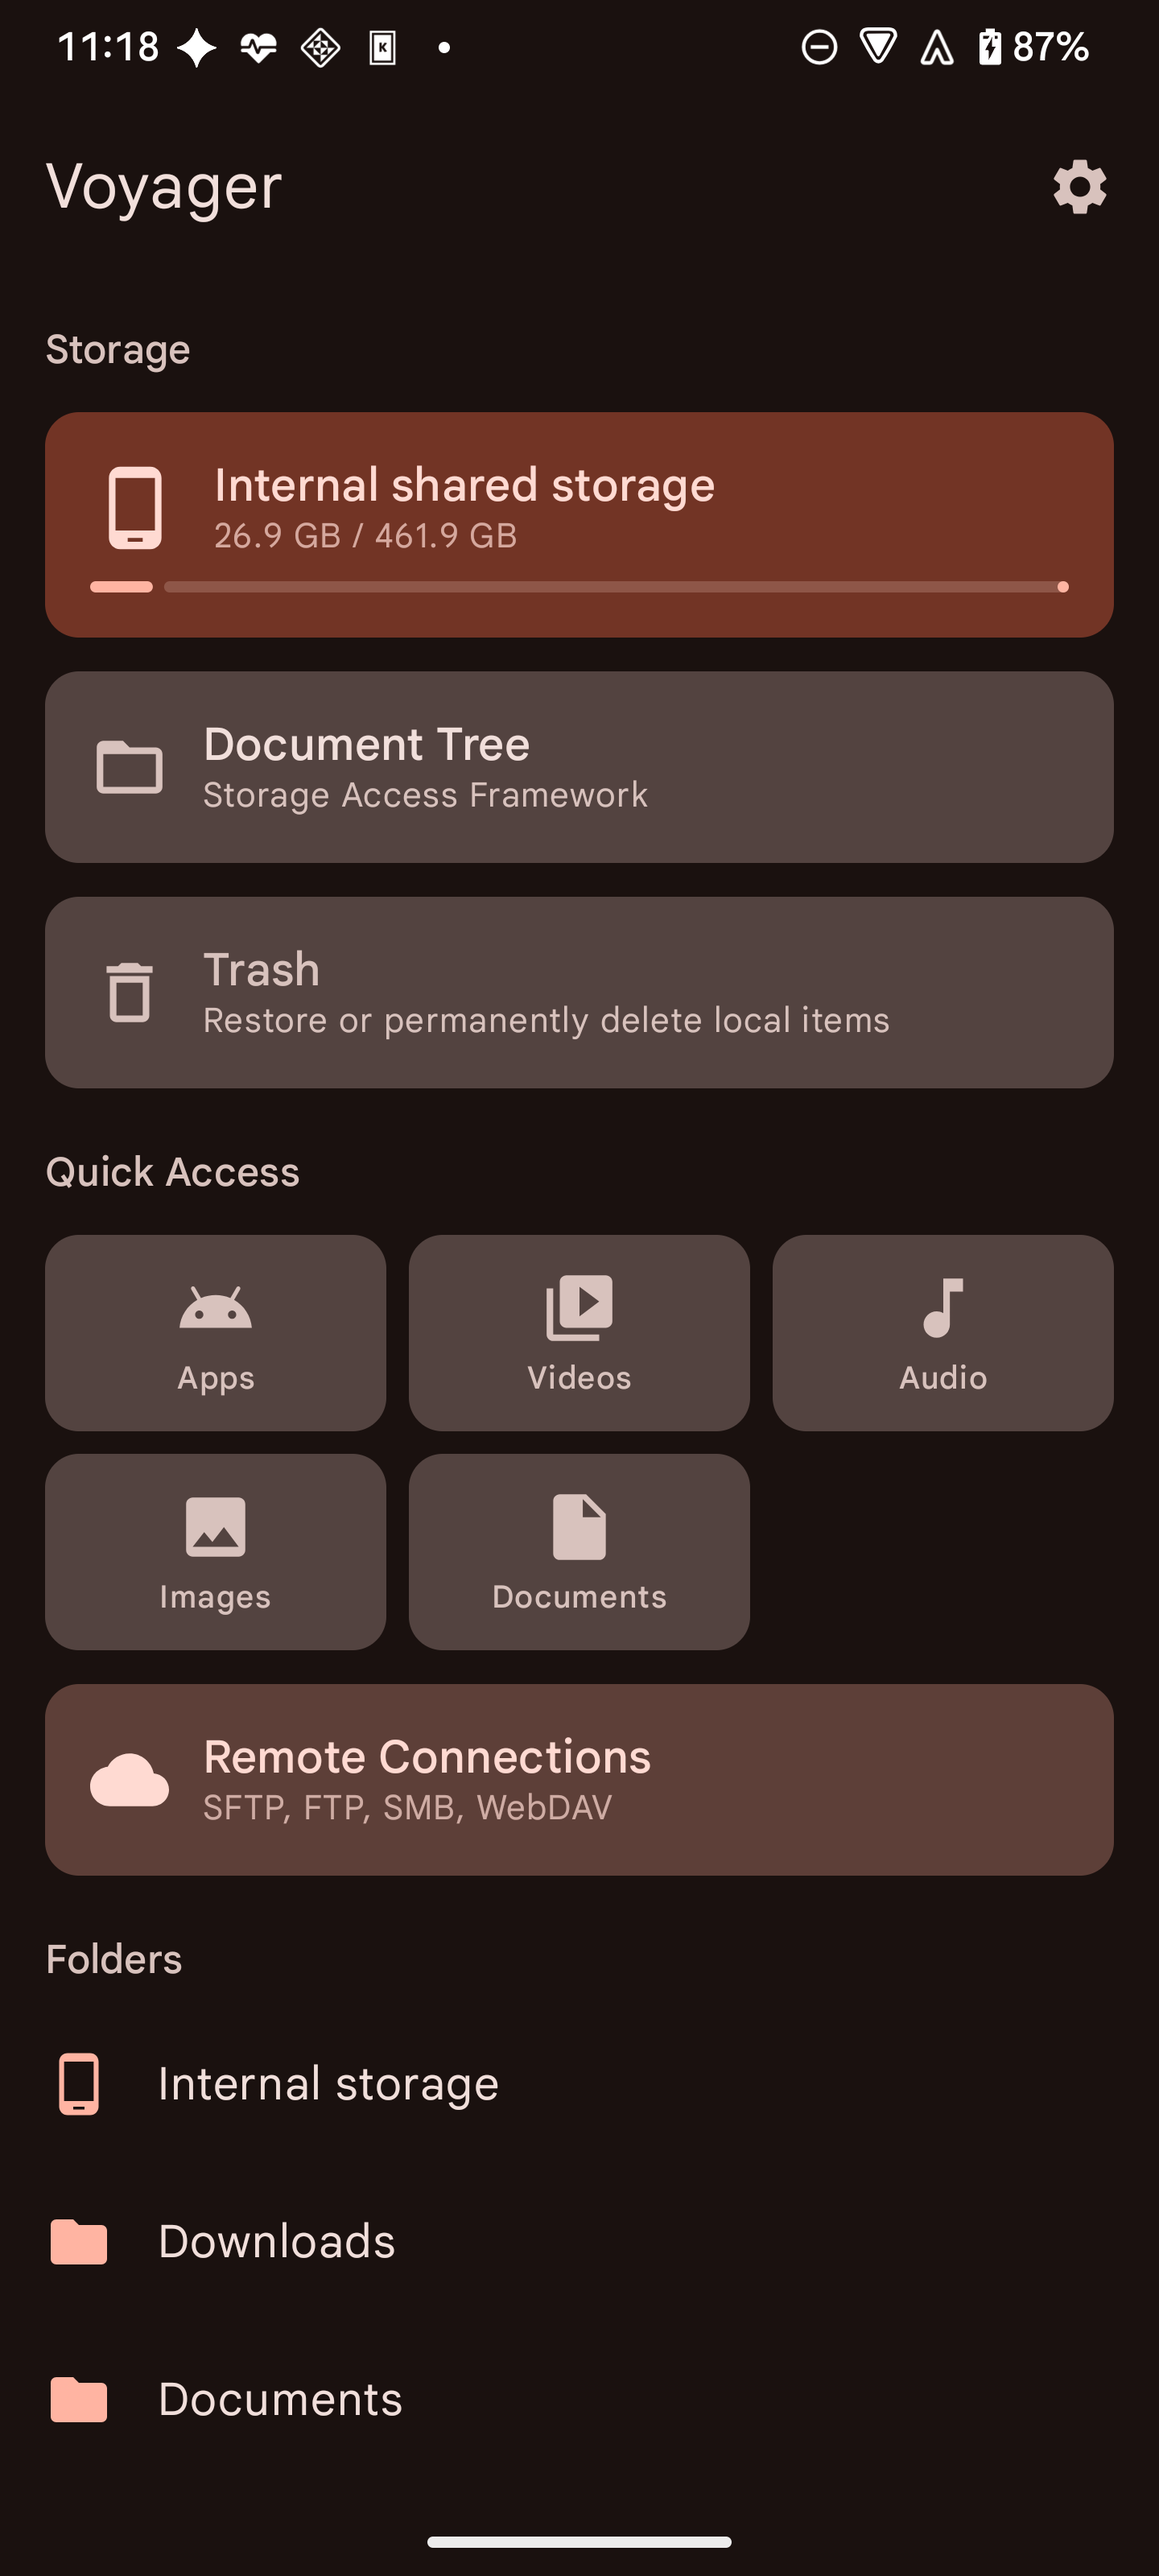
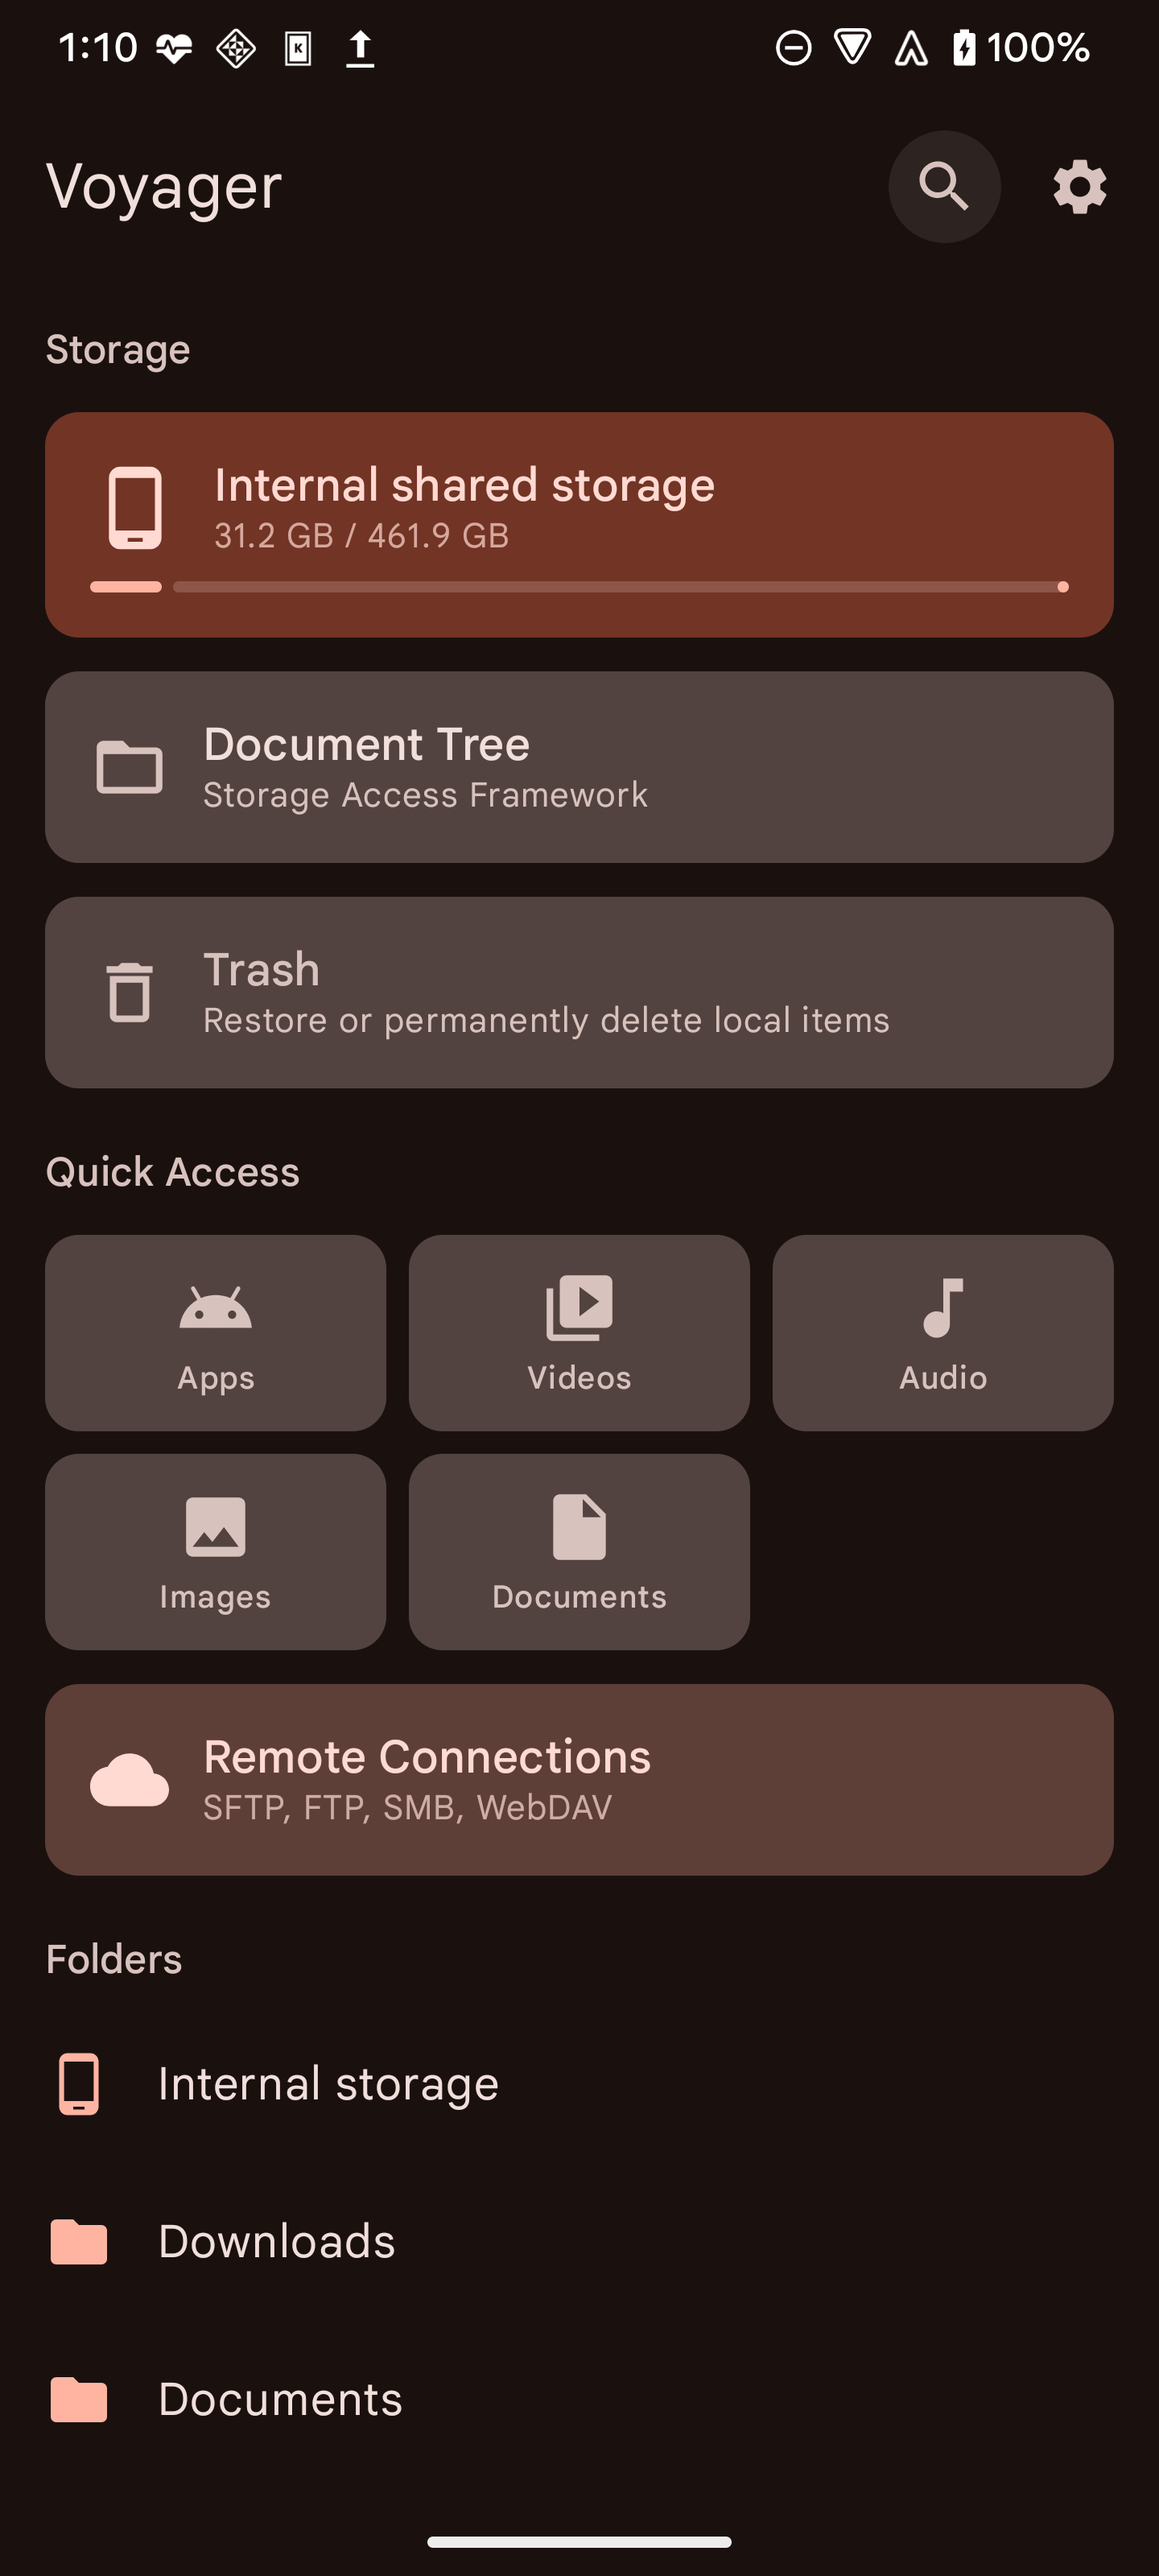
Release Voyager 1.13.0 (#154)
* Keep WebDAV byte serving active during external playback

* Prepare Voyager 1.13.0 release

---------

diff --git a/README.md b/README.md
@@ -28,8 +28,8 @@ F-Droid verifies releases through its own build process, so a new GitHub release
 ## Screenshots
 
 <p align="center">
-  <img src="docs/screenshots/home.png" width="30%" alt="Home screen with storage locations and quick access">
-  <img src="docs/screenshots/browser.png" width="30%" alt="File browser with search and type filters">
+  <img src="docs/screenshots/home.png" width="30%" alt="Home screen with shared-storage search, storage locations, and quick access">
+  <img src="docs/screenshots/browser.png" width="30%" alt="File browser with per-file menus, search, and type filters">
   <img src="docs/screenshots/trash.png" width="30%" alt="Trash screen with restore and permanent-delete actions">
 </p>
 
@@ -46,7 +46,9 @@ Settings lets you choose the search position, theme, Home sections, and remote d
 
 - Browse internal storage, SD cards, USB/OTG volumes, and folders granted through Android's folder picker.
 - Copy, move, rename, create, and delete files across local, document-tree, and remote locations, with transfer progress and cancellation. Share local and document-tree files through Android's share sheet.
-- Use list, compact list, or grid views, thumbnails, sorting, current-folder search, and file-type filters.
+- Use list, compact list, or grid views, local and remote image thumbnails, sorting, current-folder search, and file-type filters.
+- Search filenames across accessible mounted shared storage from Home, and open a result's containing folder.
+- Open per-file action menus in List and Compact views.
 - Browse Home media categories, bookmark local folders, and keep multiple browser sessions open.
 - Restore direct-local files from Trash and find duplicate files by content, with configurable folder exclusions.
 - Create ZIP archives and extract ZIP, TAR, TGZ, TBZ2, GZ, and BZ2 archives with progress and cancellation.

diff --git a/docs/superpowers/plans/2026-10-16-release-1.13.0.md b/docs/superpowers/plans/2026-10-16-release-1.13.0.md
@@ -1,0 +1,16 @@
+# Voyager 1.13.0 release
+
+This release integrates Shizuku access, shared-storage filename search, remote image thumbnails, row menus, archive recovery and concurrent local extraction writes, and WebDAV playback identity and recovery changes.
+
+- [x] Review and integrate archive PRs #115 and #139, row menus #150, WebDAV recovery #148, and Shizuku #149 after their local, K60 and CI checks.
+- [x] Integrate remote thumbnails #151 and shared-storage search #152 after current-master review, local checks, device checks and CI.
+- [ ] Verify actual mpv resume and continuous WebDAV playback beyond the reported interruption window with continuing range reads.
+- [ ] Integrate the reproduced background-freezer fix #153 after its lifecycle checks, independent review, CI and minified playback retest.
+- [x] Run a clean integrated JVM gate with Docker protocol checks and a disposable SMB share, lint, both builds and test APK compilation.
+- [ ] Run the integrated K60 regression batch and check permission handling.
+- [x] Verify version code 22, version 1.13.0, release notes, changelog and presentation updates.
+- [ ] Merge the release PR after CI, tag v1.13.0, and verify the signed APK identities, certificates and checksums published by CI.
+- [ ] Install the signed update on K60 and verify the release-facing flows.
+- [ ] Update the F-Droid metadata mirror and record its independent publication status.
+
+Device fixtures and diagnostic logs remain outside tracked source files. The existing production package, saved data and Shizuku installation are preserved throughout disposable debug and minified testing.

diff --git a/docs/releases/1.13.0.md b/docs/releases/1.13.0.md
@@ -1,0 +1,12 @@
+Voyager 1.13.0 adds Shizuku file access, shared-storage search, remote image thumbnails, and per-file menus.
+
+- Open a separate Shizuku session from Settings to manage files with the connected service's shell or root privileges.
+- Search filenames across accessible mounted shared storage from Home, then open a result or its containing folder.
+- Show bounded image thumbnails for SFTP, FTP, SMB, and WebDAV files.
+- Use per-file menus in List and Compact views for file operations and details.
+- Preserve recovered archive output when extraction encounters unreadable entries, report renamed filename clashes, and write files concurrently during local extraction.
+- Keep WebDAV playback active while Voyager is in the background, preserve playback URI identity when reopening a file, and retry interrupted byte-range reads.
+
+Requires Android 8.0 or later. The universal APK supports all included architectures. GitHub and F-Droid use the same developer signing key; F-Droid publishes after its independent build and verification process.
+
+[Changes since 1.12.1](https://github.com/AlanHuang99/Voyager/compare/v1.12.1...v1.13.0).

diff --git a/docs/superpowers/plans/2026-10-16-shizuku.md b/docs/superpowers/plans/2026-10-16-shizuku.md
@@ -10,6 +10,6 @@ Access is the actual privilege of Shizuku: shell when started through ADB, root 
 - [x] Add a source-preservation and local-alias test, then parameterize the existing shell provider.
 - [x] Implement the UserService, descriptor bridge, permission and connection lifecycle.
 - [x] Add Settings connection and separate session UI.
-- [ ] Verify real Shizuku operations, cross-provider transfers, cancellation, denied access and closed-session recovery on K60.
-- [ ] Run the JVM suite, lint, debug/release builds and minified device smoke check.
-- [ ] Open and validate a focused PR, update #144, and integrate after review.
+- [x] Verify real Shizuku operations, cross-provider transfers, cancellation, denied access and closed-session recovery on K60.
+- [x] Run the JVM suite, lint, debug/release builds and minified device smoke check.
+- [x] Open and validate a focused PR, update #144, and integrate after review.
